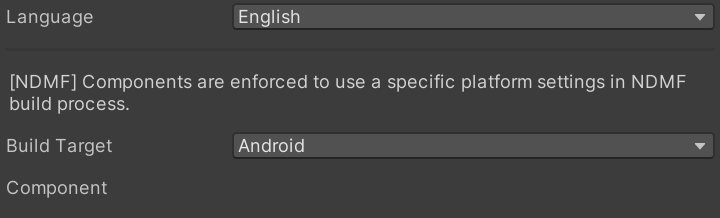
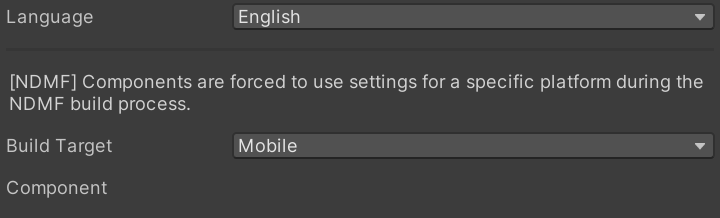
Show Mobile instead of Android in Build Target dropdown

Changed region(s): [[0.3056, 0.3303, 0.9778, 0.4404], [0.0, 0.4404, 0.275, 0.5229], [0.3056, 0.633, 0.4278, 0.7156]]

diff --git a/Packages/com.github.kurotu.vrc-quest-tools/Editor/Inspector/BuildTargetDrawer.cs b/Packages/com.github.kurotu.vrc-quest-tools/Editor/Inspector/BuildTargetDrawer.cs
@@ -1,0 +1,41 @@
+// <copyright file="BuildTargetDrawer.cs" company="kurotu">
+// Copyright (c) kurotu.
+// Licensed under the MIT license. See LICENSE.txt file in the project root for full license information.
+// </copyright>
+
+using System;
+using System.Linq;
+using UnityEditor;
+using UnityEngine;
+using BuildTarget = KRT.VRCQuestTools.Models.BuildTarget;
+
+namespace KRT.VRCQuestTools.Inspector
+{
+    /// <summary>
+    /// PropertyDrawer for BuildTarget.
+    /// </summary>
+    [CustomPropertyDrawer(typeof(BuildTarget))]
+    internal class BuildTargetDrawer : PropertyDrawer
+    {
+        private static readonly GUIContent[] Labels = Enum.GetValues(typeof(BuildTarget))
+            .Cast<BuildTarget>()
+            .Select(t => new GUIContent(t == BuildTarget.Android ? "Mobile" : t.ToString()))
+            .ToArray();
+
+        /// <inheritdoc/>
+        public override void OnGUI(Rect position, SerializedProperty property, GUIContent label)
+        {
+            using (new EditorGUI.PropertyScope(position, label, property))
+            {
+                using (var ccs = new EditorGUI.ChangeCheckScope())
+                {
+                    var newIndex = EditorGUI.Popup(position, label, property.enumValueIndex, Labels);
+                    if (ccs.changed)
+                    {
+                        property.enumValueIndex = newIndex;
+                    }
+                }
+            }
+        }
+    }
+}

diff --git a/Website/i18n/ja/docusaurus-plugin-content-docs/current/components/platform-target-settings.md b/Website/i18n/ja/docusaurus-plugin-content-docs/current/components/platform-target-settings.md
@@ -22,4 +22,4 @@ slug: /references/components/platform-target-settings
 ## 補足
 
 PC 用のビルドで Mobile 向けの動作を確認したいときに便利です。
-たとえば「ビルドターゲット」を Android にすると、Unity が Windows ターゲットのままでも Mobile 用の設定でビルドされます。
+たとえば「ビルドターゲット」を Mobile にすると、Unity が Windows ターゲットのままでも Mobile 用の設定でビルドされます。

diff --git a/Website/docs/components/platform-target-settings.md b/Website/docs/components/platform-target-settings.md
@@ -22,4 +22,4 @@ With this component, the avatar is built with the settings of the specified plat
 ## Notes
 
 This is convenient to check the Mobile behavior in PC builds.
-For example, setting "Build Target" to Android builds the avatar with the Mobile settings even when Unity targets Windows.
+For example, setting "Build Target" to Mobile builds the avatar with the Mobile settings even when Unity targets Windows.

diff --git a/CHANGELOG_JP.md b/CHANGELOG_JP.md
@@ -8,6 +8,7 @@
 
 ### 修正
 - [NDMF] 既に開いているシーンファイルを再度開くとプレビューがマテリアルエラーを起こす問題を修正。
+- `VQT Platform Target Settings` の「ビルドターゲット」の選択肢が `Mobile` ではなく `Android` と表示される問題を修正。
 
 ## [3.0.1] - 2026-10-13
 

diff --git a/CHANGELOG.md b/CHANGELOG.md
@@ -9,6 +9,7 @@ and this project adheres to [Semantic Versioning](https://semver.org/spec/v2.0.0
 
 ### Fixed
 - [NDMF] Fixed preview material errors when reopening an already opened scene file.
+- Fixed the "Build Target" option of `VQT Platform Target Settings` showing `Android` instead of `Mobile`.
 
 ## [3.0.1] - 2026-10-13
 
